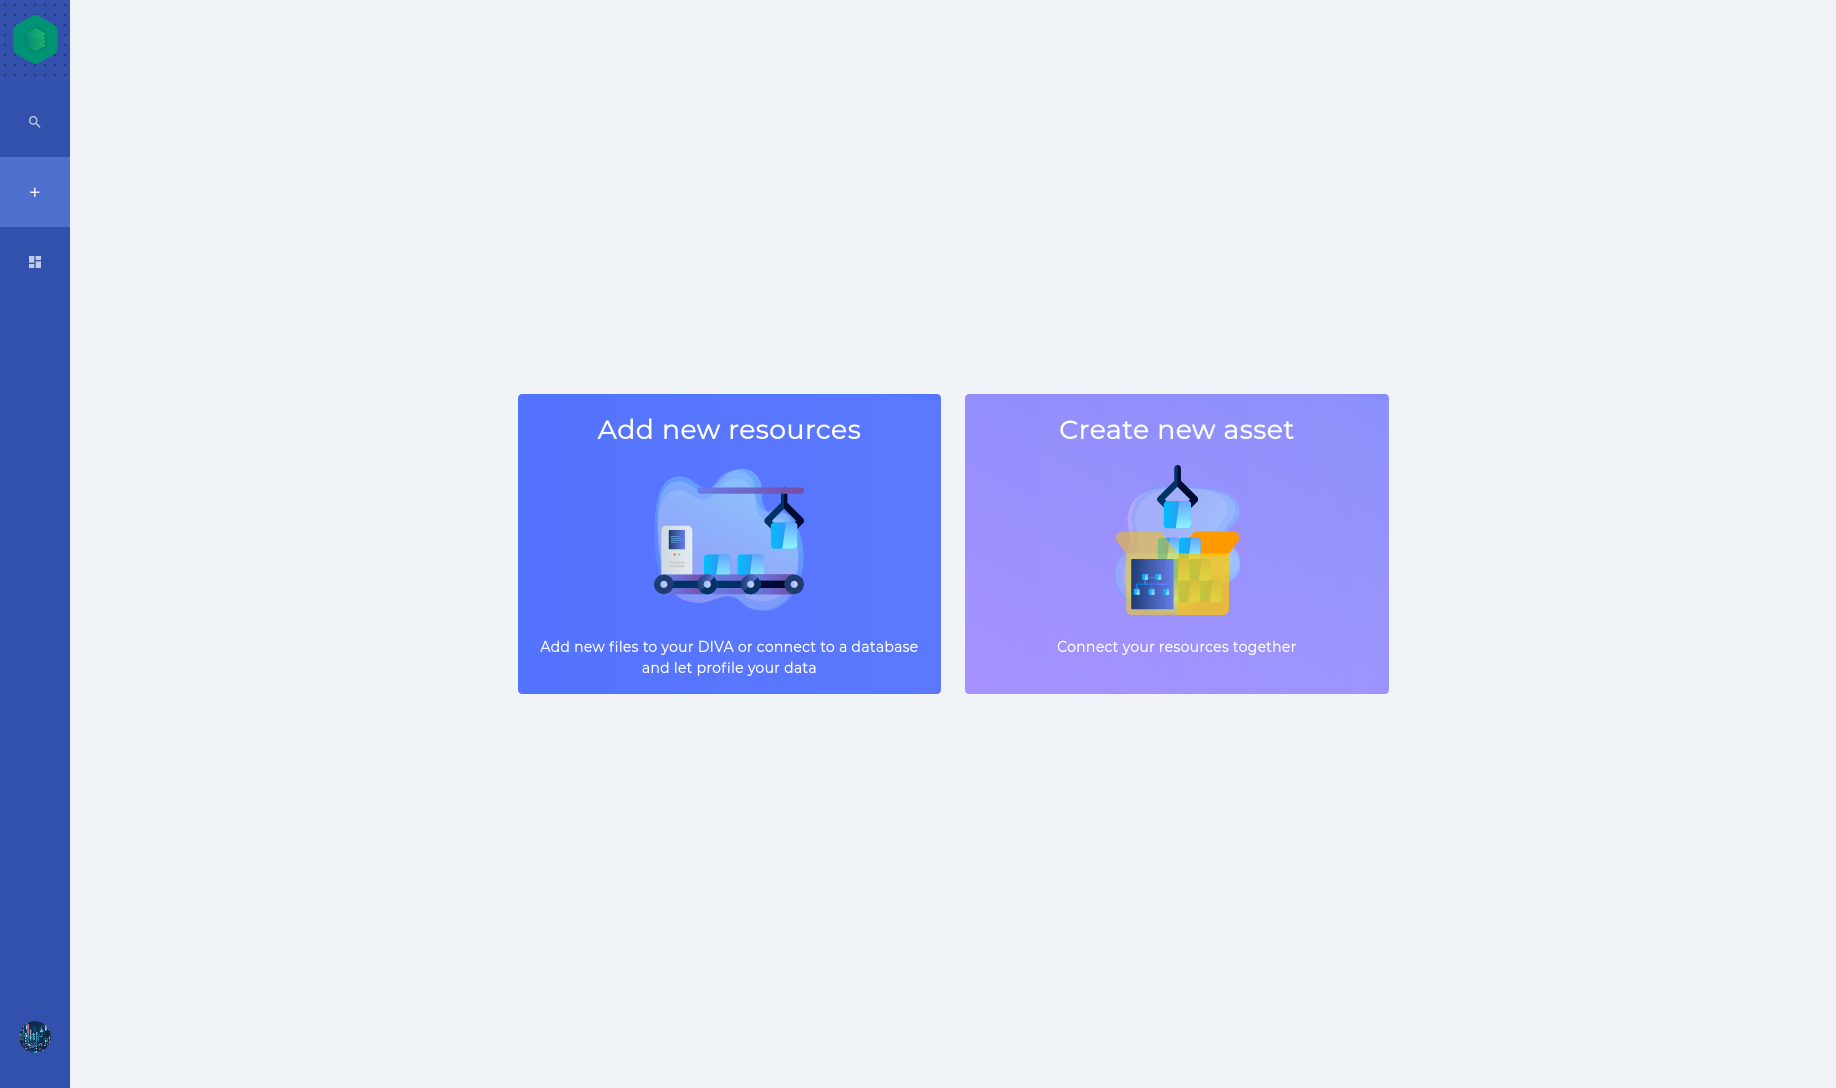
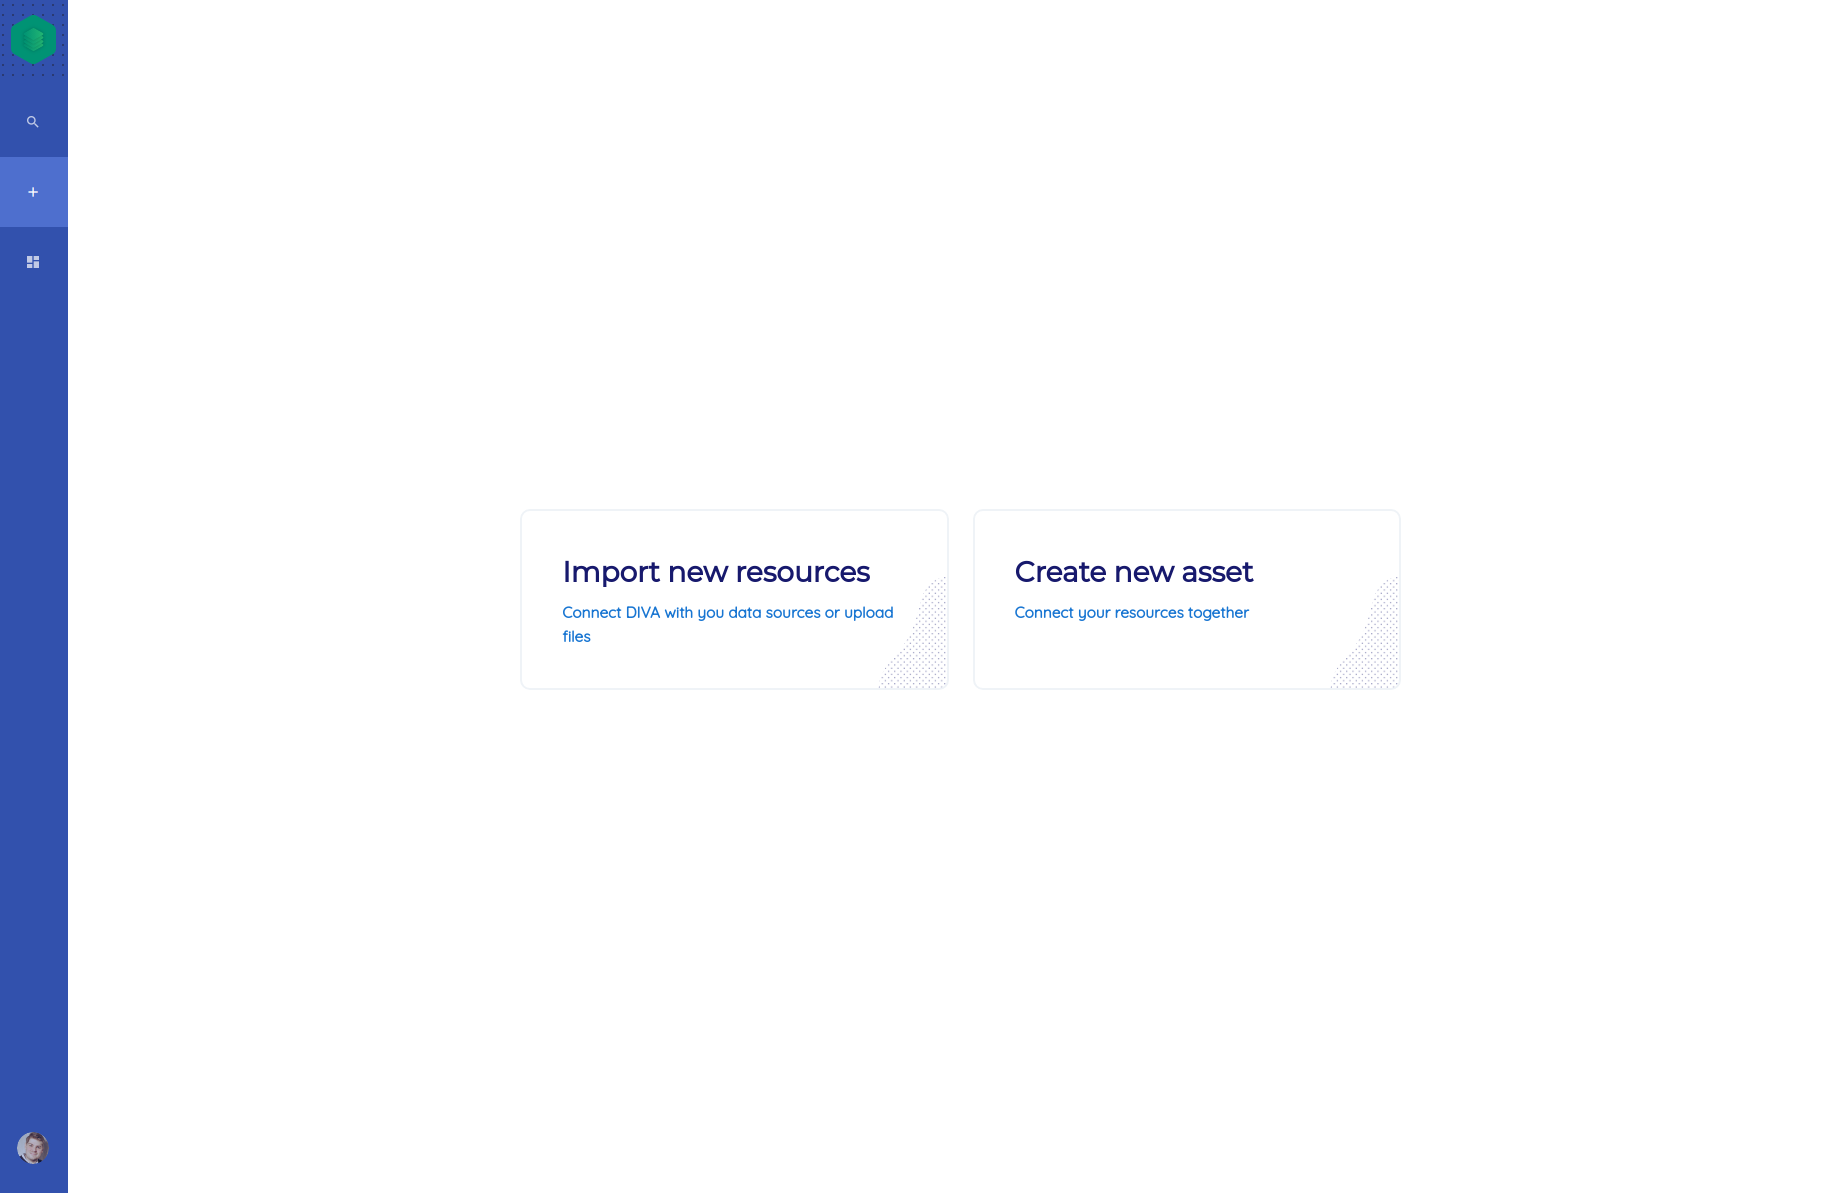
feat: added import and asset create

diff --git a/docs/.vuepress/config.js b/docs/.vuepress/config.js
@@ -110,7 +110,7 @@ module.exports = {
       ],
       '/user-docs/': [
         {
-          text: 'User guide',
+          text: 'User Guide',
           collapsable: false,
           isGroup: true,
           children: [
@@ -120,15 +120,15 @@ module.exports = {
             '/user-docs/search.md',
             '/user-docs/user.md',
             '/user-docs/dashboard.md',
-            /*{
-              text: 'Import and creat',
+            {
+              text: 'Import and CreateThis page is used to populate the data catalog with entities. Entities are currently resources and assets.',
               isGroup: true,
               link: '/user-docs/create/README.md',
               children: [
                 '/user-docs/create/create-resource.md',
                 '/user-docs/create/create-asset.md',
               ]
-            },*/
+            },
           ]
         },
       ],

diff --git a/docs/user-docs/create/README.md b/docs/user-docs/create/README.md
@@ -1,5 +1,15 @@
-# Import and create
+# Import and Create
+
+This page is used to populate the data catalog with entities.
+Entities are currently `resources` and `assets`.
+
+::: tip
+In the future you might encounter other entities like `services` or `users` themselves.
+:::
+
++ To create a `resource`, click on the [Import new resources](/user-docs/create/create-resource.md) card.
++ To create an `asset`, click on the [Create new asset](/user-docs/create/create-asset.md) card.
 
 <div class="flex justify-center">
-    <img class="rounded-lg" :src="$withBase('/assets/screenshots/create.png')" alt="DIVA login">
+    <img class="rounded-lg" :src="$withBase('/assets/screenshots/create.png')" alt="DIVA Create Entities">
 </div>

diff --git a/docs/user-docs/create/create-asset.md b/docs/user-docs/create/create-asset.md
@@ -1,1 +1,18 @@
-# Dashboard
+# Create Asset
+
+## What is an Asset?
+
+An asset is a grouping of other entities from the data catalog.
+For example, an asset can group other resources together.
+If you have a project, you can reference the corresponding files there.
+You can also link users and other assets.
+
+## Create an Asset
+
+To create an asset it is sufficient to give it a title.
+Enter the title in the displayed field and click the `Create asset` button.
+You will be automatically redirected to the new asset detail page.
+
+<div class="flex justify-center">
+    <img class="rounded-lg" :src="$withBase('/assets/screenshots/create_asset.png')" alt="DIVA Create Asset">
+</div>

diff --git a/docs/user-docs/home.md b/docs/user-docs/home.md
@@ -7,10 +7,9 @@ Below you will find the overview of the application.
 2. Main app navigation
 3. Link to home page
 4. Link to [search](./search.md) page
-5. Link to [creation](./ceation.md) page
+5. Link to creation page
 6. Link to [dashboard](./dashboard.md) page
-7. Quick access to logged-in user account
-8. Link to [user](./user.md) page
+7. Link to [user](./user.md) page
 
 <div class="flex justify-center">
     <img class="rounded-lg" :src="$withBase('/assets/screenshots/home.png')" alt="DIVA login">

diff --git a/docs/user-docs/create/create-resource.md b/docs/user-docs/create/create-resource.md
@@ -1,1 +1,3 @@
-# Dashboard
+# Create Resource
+
+TBD
